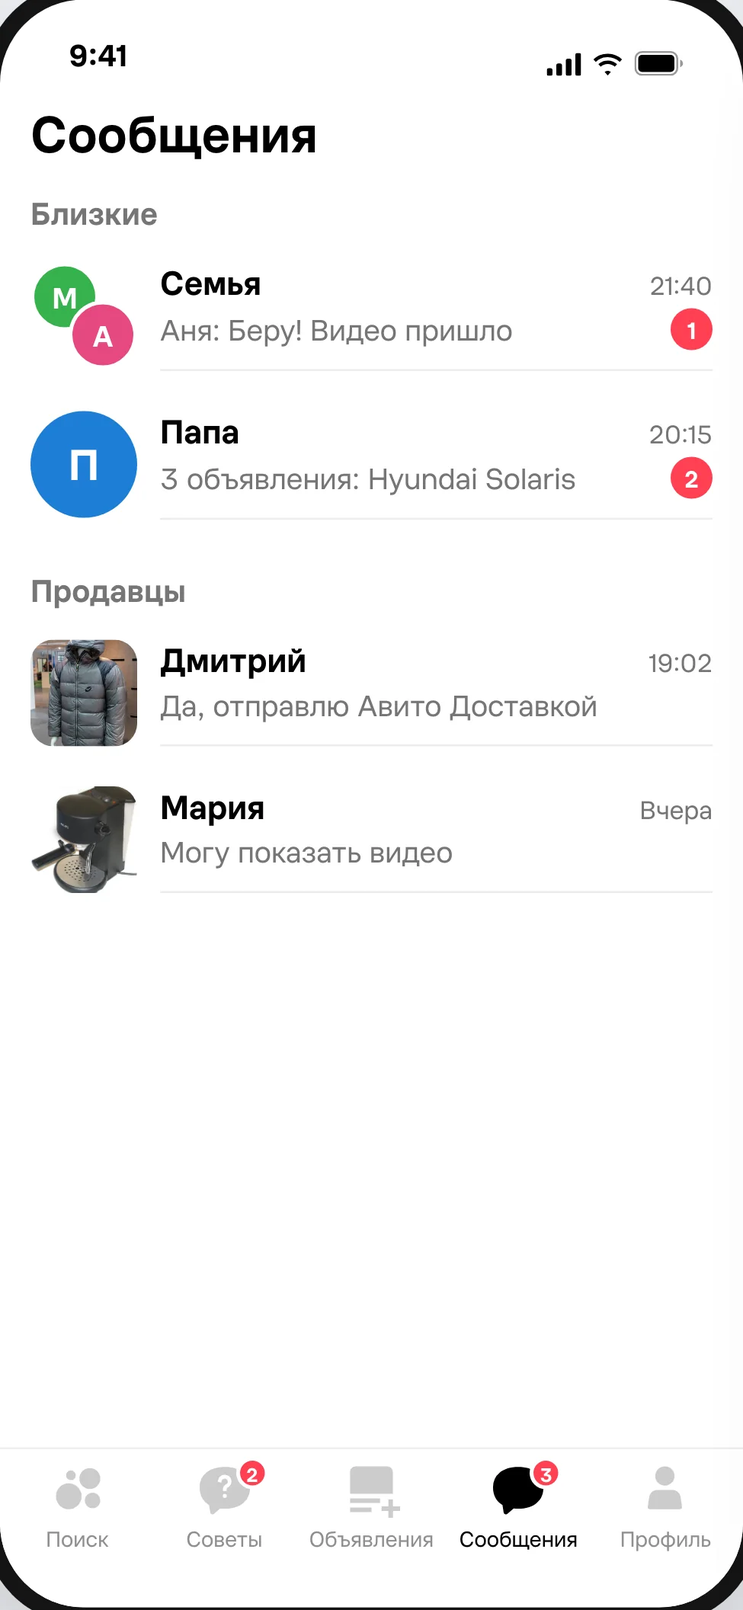
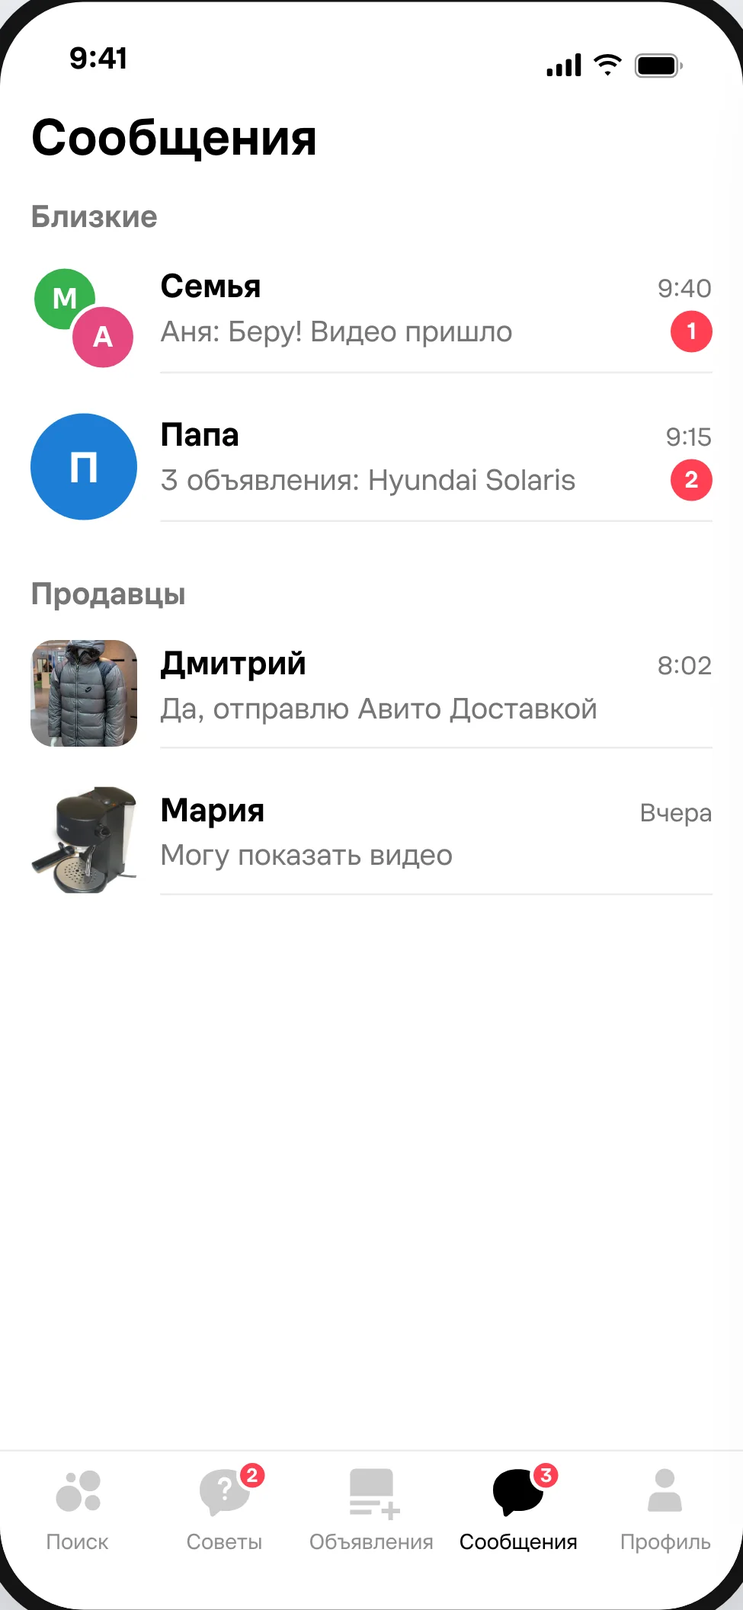
fix: макеты: время чатов до 9:41, счётчик ответов в ветке, близкие без групповых чатов с незнакомыми

diff --git a/maket/index.html b/maket/index.html
@@ -99,8 +99,8 @@ footer{padding:28px 0 44px;font-size:13px;color:var(--muted)}
 <section id="s01"><div class="k">01 · Решение · лента советов</div><h2>Советы: цепляет, как Instagram и X, выглядит как Авито</h2><p class="bp">Интерфейс собран из настоящего Авито: шрифт Avito Sans, иконки и цвета дизайн-системы. Лента устроена как в соцсетях: каждый вопрос - пост с автором, лучшим ответом знатока и крупным фото вещи из ответа, внизу счётчики со словами «14 ответов», «Полезно 23», «Близким». В каждом посте видно, что беспокоит человека и чем всё закончилось. Кнопка «Задать вопрос» всегда в углу экрана. Варианты ленты, которые рассматривали, в конце страницы.</p><div class="rail"><figure class="card"><img src="img/01_feed_01.webp" width="975" height="2113" loading="eager" alt="Открыли Советы"><figcaption><span class="n">1</span><b>Открыли Советы</b><p>Вопрос выглядит как пост в соцсети: автор, боль («дважды падала у метро»), лучший ответ знатока и фото вещи с названием и ценой, как в выдаче Авито. Под ответом итог: «Заказала, спасибо!». Внизу счётчики со словами, кнопка «Задать вопрос» всегда в углу экрана.</p></figcaption></figure><figure class="card"><img src="img/01_feed_02.webp" width="975" height="2113" loading="eager" alt="Когда нужна ваша помощь"><figcaption><span class="n">2</span><b>Когда нужна ваша помощь</b><p>Аня боится купить сломанный фотоаппарат и присылает два варианта с фото, как опрос в соцсети. Помочь можно одной кнопкой «Помочь Ане». Ниже вопрос вашей темы без ответа с пометкой «Можно ответить первым»: Ника боится камеры с дефектом.</p></figcaption></figure></div><div class="cnt"></div></section>
 <section id="s02"><div class="k">02 · Решение · нижняя панель</div><h2>Где живут Советы</h2><p class="bp">Пять вкладок, как в Авито сейчас: «Советы» встают на место Избранного, Объявления и Сообщения остаются на своих местах. Избранное не теряется: кнопка «Избранное» рядом с поиском и первый пункт Профиля с пометкой «Теперь здесь». Главная, плитки категорий и профиль - как в Авито.</p><div class="rail"><figure class="card"><img src="img/02_nav_01.webp" width="975" height="2113" loading="lazy" alt="Советы вместо Избранного"><figcaption><span class="n">1</span><b>Советы вместо Избранного</b><p>Главная Авито как есть, добавлена только кнопка «Избранное» рядом с поиском. В нижней панели пять вкладок: Поиск, Советы, Объявления, Сообщения, Профиль.</p></figcaption></figure><figure class="card"><img src="img/02_nav_02.webp" width="975" height="2113" loading="lazy" alt="Избранное в Профиле"><figcaption><span class="n">2</span><b>Избранное в Профиле</b><p>Избранное первым пунктом профиля с пометкой «Теперь здесь», ниже «Знаток» с вашими ответами. Профиль Авито не переделываем, только добавляем пункты.</p></figcaption></figure></div><div class="cnt"></div></section>
 <section id="s03"><div class="k">03 · Решение · задать вопрос</div><h2>Задать вопрос на одном экране</h2><p class="bp">Одно поле, как письмо другу, и кнопка «Сказать голосом». Категорию, бюджет и размер понимает Ави, помощник Авито, и показывает одной строкой. Кому показать вопрос - два варианта словами. После отправки сразу понятно, что вопрос ушёл и что будет дальше. Пример - ваш собственный вопрос: пуховик, в котором не мёрзнешь на остановке.</p><div class="rail"><figure class="card"><img src="img/03_create_01.webp" width="975" height="2113" loading="lazy" alt="Текстом или голосом"><figcaption><span class="n">1</span><b>Текстом или голосом</b><p>Пишете как в мессенджере или говорите голосом. Ави сам понимает категорию, бюджет и размер. Кому показать - два понятных варианта, выбираются до отправки.</p></figcaption></figure><figure class="card"><img src="img/03_create_02.webp" width="975" height="2113" loading="lazy" alt="Сразу после отправки"><figcaption><span class="n">2</span><b>Сразу после отправки</b><p>Зелёная плашка «Вопрос отправлен» и что будет дальше. Ниже объявления, которые подобрал Ави, и похожие вопросы. Экран не пустой, понятно, что делать, пока ждёте ответ.</p></figcaption></figure><figure class="card"><img src="img/03_create_03.webp" width="975" height="2113" loading="lazy" alt="Когда пришли ответы"><figcaption><span class="n">3</span><b>Когда пришли ответы</b><p>Проблема решилась прямо здесь: знаток одежды Света прислала пуховик вашего размера, вы нажали «Помогло» и пишете «Заказал с Авито Доставкой». У каждого ответа одинаковые кнопки «Помогло» и «Ответить».</p></figcaption></figure></div><div class="cnt"></div></section>
-<section id="s04"><div class="k">04 · Решение · ответить на вопрос</div><h2>Вопрос и ответ</h2><p class="bp">Ответы выглядят как обычные комментарии: сверху тот, что помог автору, под ним ответы на него. У каждого действия есть подпись: «Отправить близким», «Написать ответ», «Добавить объявление». Объявление к ответу прикрепляется кнопкой со словами, а не значком «+». Пример - вопрос Марины через 10 минут после публикации, пока она ещё выбирает: вы советуете из своего опыта.</p><div class="rail"><figure class="card"><img src="img/04_thread_01.webp" width="975" height="2113" loading="lazy" alt="Вопрос и ответы"><figcaption><span class="n">1</span><b>Вопрос и ответы</b><p>Марина боится снова упасть. Илья советует модель с объявлением, а сомнение про размер закрывает прямо в ветке: «Свой, с тёплым носком как раз». Его ответ сверху с пометкой «помогло автору». Остальные 13 ответов открываются кнопкой, свой можно добавить кнопкой «Написать ответ».</p></figcaption></figure><figure class="card"><img src="img/04_thread_02.webp" width="975" height="2113" loading="lazy" alt="«Добавить объявление»"><figcaption><span class="n">2</span><b>«Добавить объявление»</b><p>Нажали «Добавить объявление». Вместо значка «+» кнопка со словами и три понятных способа: подобрать по вопросу, взять из Избранного или сфотографировать свои кроссовки. Шторка закрывается кнопкой «Закрыть».</p></figcaption></figure><figure class="card"><img src="img/04_thread_03.webp" width="975" height="2113" loading="lazy" alt="Подобрать по вопросу"><figcaption><span class="n">3</span><b>Подобрать по вопросу</b><p>Объявления уже отобраны по вопросу Марины. Под каждым кнопка «Выбрать», выбранное отмечено галочкой, а то, что уже посоветовал Илья, помечено «Уже у Ильи». Так ответ сразу ведёт к покупке.</p></figcaption></figure><figure class="card"><img src="img/04_thread_04.webp" width="975" height="2113" loading="lazy" alt="Ответ с вещью"><figcaption><span class="n">4</span><b>Ответ с вещью</b><p>Текст и прикреплённое объявление уходят одним ответом. Если прикрепить своё объявление, ответ получит пометку «Реклама».</p></figcaption></figure></div><div class="cnt"></div></section>
-<section id="s05"><div class="k">05 · Решение · близкие</div><h2>Близкие вместо групп</h2><p class="bp">Групп по интересам нет: только семья и друзья, которых вы позвали сами. Переписка живёт в обычных Сообщениях Авито, близкие закреплены сверху. В Советах просьба близкого приходит карточкой с кнопкой «Помочь». Что прислал папа, оцениваем кнопками «Нравится» и «Не то», без свайпов.</p><div class="rail"><figure class="card"><img src="img/05_close_01.webp" width="975" height="2113" loading="lazy" alt="Нажали «Помочь Ане»"><figcaption><span class="n">1</span><b>Нажали «Помочь Ане»</b><p>Поверх Советов открылся семейный чат, тот же, что в Сообщениях. Аня боится купить сломанный, мама одобрила Зенит, вы советуете попросить видео затвора. Шторка закрывается кнопкой «Закрыть».</p></figcaption></figure><figure class="card"><img src="img/05_close_02.webp" width="975" height="2113" loading="lazy" alt="Близкие в Сообщениях"><figcaption><span class="n">2</span><b>Близкие в Сообщениях</b><p>Через час в Сообщениях: близкие закреплены сверху и отделены от продавцов. Аня пишет «Беру! Видео пришло» - продавец прислал видео затвора, её проблема решена. Папа прислал три машины.</p></figcaption></figure><figure class="card"><img src="img/05_close_03.webp" width="975" height="2113" loading="lazy" alt="Чат с папой"><figcaption><span class="n">3</span><b>Чат с папой</b><p>Папа боялся взять машину, которая сгниёт. Прочитал ответы владельцев и решил сам: у Весты ржавеют пороги, берёт Solaris. Его варианты оцениваем по одному кнопками «Нравится» и «Не то», без свайпов.</p></figcaption></figure></div><div class="cnt"></div></section>
+<section id="s04"><div class="k">04 · Решение · ответить на вопрос</div><h2>Вопрос и ответ</h2><p class="bp">Ответы выглядят как обычные комментарии: сверху тот, что помог автору, под ним ответы на него. У каждого действия есть подпись: «Отправить близким», «Написать ответ», «Добавить объявление». Объявление к ответу прикрепляется кнопкой со словами, а не значком «+». Пример - вопрос Марины через 10 минут после публикации, пока она ещё выбирает: вы советуете из своего опыта.</p><div class="rail"><figure class="card"><img src="img/04_thread_01.webp" width="975" height="2113" loading="lazy" alt="Вопрос и ответы"><figcaption><span class="n">1</span><b>Вопрос и ответы</b><p>Марина боится снова упасть. Илья советует модель с объявлением, а сомнение про размер закрывает прямо в ветке: «Свой, с тёплым носком как раз». Его ответ сверху с пометкой «помогло автору». Остальные 12 ответов открываются кнопкой, свой можно добавить кнопкой «Написать ответ».</p></figcaption></figure><figure class="card"><img src="img/04_thread_02.webp" width="975" height="2113" loading="lazy" alt="«Добавить объявление»"><figcaption><span class="n">2</span><b>«Добавить объявление»</b><p>Нажали «Добавить объявление». Вместо значка «+» кнопка со словами и три понятных способа: подобрать по вопросу, взять из Избранного или сфотографировать свои кроссовки. Шторка закрывается кнопкой «Закрыть».</p></figcaption></figure><figure class="card"><img src="img/04_thread_03.webp" width="975" height="2113" loading="lazy" alt="Подобрать по вопросу"><figcaption><span class="n">3</span><b>Подобрать по вопросу</b><p>Объявления уже отобраны по вопросу Марины. Под каждым кнопка «Выбрать», выбранное отмечено галочкой, а то, что уже посоветовал Илья, помечено «Уже у Ильи». Так ответ сразу ведёт к покупке.</p></figcaption></figure><figure class="card"><img src="img/04_thread_04.webp" width="975" height="2113" loading="lazy" alt="Ответ с вещью"><figcaption><span class="n">4</span><b>Ответ с вещью</b><p>Текст и прикреплённое объявление уходят одним ответом. Если прикрепить своё объявление, ответ получит пометку «Реклама».</p></figcaption></figure></div><div class="cnt"></div></section>
+<section id="s05"><div class="k">05 · Решение · близкие</div><h2>Близкие вместо групп</h2><p class="bp">Групповых чатов с незнакомыми нет: только семья и друзья, которых вы позвали сами, а темы по интересам - в ленте Советов. Переписка живёт в обычных Сообщениях Авито, близкие закреплены сверху. В Советах просьба близкого приходит карточкой с кнопкой «Помочь». Что прислал папа, оцениваем кнопками «Нравится» и «Не то», без свайпов.</p><div class="rail"><figure class="card"><img src="img/05_close_01.webp" width="975" height="2113" loading="lazy" alt="Нажали «Помочь Ане»"><figcaption><span class="n">1</span><b>Нажали «Помочь Ане»</b><p>Поверх Советов открылся семейный чат, тот же, что в Сообщениях. Аня боится купить сломанный, мама одобрила Зенит, вы советуете попросить видео затвора. Шторка закрывается кнопкой «Закрыть».</p></figcaption></figure><figure class="card"><img src="img/05_close_02.webp" width="975" height="2113" loading="lazy" alt="Близкие в Сообщениях"><figcaption><span class="n">2</span><b>Близкие в Сообщениях</b><p>Через час в Сообщениях: близкие закреплены сверху и отделены от продавцов. Аня пишет «Беру! Видео пришло» - продавец прислал видео затвора, её проблема решена. Папа прислал три машины.</p></figcaption></figure><figure class="card"><img src="img/05_close_03.webp" width="975" height="2113" loading="lazy" alt="Чат с папой"><figcaption><span class="n">3</span><b>Чат с папой</b><p>Папа боялся взять машину, которая сгниёт. Прочитал ответы владельцев и решил сам: у Весты ржавеют пороги, берёт Solaris. Его варианты оцениваем по одному кнопками «Нравится» и «Не то», без свайпов.</p></figcaption></figure></div><div class="cnt"></div></section>
 <section id="s06"><div class="k">06 · Решение · карточка объявления</div><h2>Опыт владельцев, который не мешает покупке</h2><p class="bp">Карточка объявления Авито как есть: фото со счётчиком, цена, кнопки внизу. Добавлен только спокойный серый блок «Что говорят владельцы»: до&nbsp;10 отзывов о модели одна цитата, от 10 - короткая сводка Ави с плюсами и минусами (Яндекс тоже включает ИИ-сводку от 10 отзывов). Ниже вопрос об этой модели с лучшим ответом и кнопка «Задать вопрос о модели».</p><div class="rail"><figure class="card"><img src="img/06_item_01.webp" width="975" height="2113" loading="lazy" alt="До 10 отзывов: одна цитата"><figcaption><span class="n">1</span><b>До&nbsp;10 отзывов: одна цитата</b><p>Два главных страха закрыты прямо в карточке. «А вдруг не подойдёт размер» - владельцы: «садятся размер в размер». «А вдруг подделка» - лучший ответ: сверить артикул с сайтом. <span class="pro">Блок спокойный и не спорит с ценой и кнопками покупки.</span></p></figcaption></figure><figure class="card"><img src="img/06_item_02.webp" width="975" height="2113" loading="lazy" alt="От 10 отзывов: сводка Ави"><figcaption><span class="n">2</span><b>От 10 отзывов: сводка Ави</b><p>Плюсы и минусы модели по отзывам владельцев коротко, обычными словами. Так Яндекс показывает сводку отзывов в Маркете, от 10 отзывов. <span class="pro">Работает и для авто, и для техники.</span></p></figcaption></figure><figure class="card"><img src="img/06_item_03.webp" width="975" height="2113" loading="lazy" alt="Вопрос из карточки"><figcaption><span class="n">3</span><b>Вопрос из карточки</b><p>Вопрос о модели задаётся в один шаг, модель уже прикреплена. Если такой вопрос уже задавали, Авито сразу показывает готовые ответы. Про конкретного продавца написать нельзя, его репутация не страдает.</p></figcaption></figure></div><div class="cnt"></div></section>
 <section id="s07"><div class="k">07 · Решение · знатоки</div><h2>Знаток: за что дают и что это даёт</h2><p class="bp">Вкладка «Знаток» внутри обычного профиля Авито, туда ведёт пункт «Знаток» в Профиле. Статус свой в каждой теме и растёт только от отметок «Помогло» и покупок по совету, а не от числа ответов. В ленте рядом с именем видно только слово, например «Знаток обуви», и тонкое кольцо у аватара. Уровни и прогресс живут в профиле.</p><div class="rail"><figure class="card"><img src="img/07_expert_01.webp" width="975" height="2113" loading="lazy" alt="Вкладка «Знаток» в профиле"><figcaption><span class="n">1</span><b>Вкладка «Знаток» в профиле</b><p>Профиль не переделываем, добавляем вкладку рядом с Объявлениями и Отзывами. Главное одной фразой: «Вы помогли выбрать 20 людям», и последнее спасибо: Олег не купил камеру с битым пикселем. Знаток видит, что его совет реально уберёг человека.</p></figcaption></figure><figure class="card"><img src="img/07_expert_02.webp" width="975" height="2113" loading="lazy" alt="Как стать знатоком"><figcaption><span class="n">2</span><b>Как стать знатоком</b><p>Три шага с номерами вместо таблицы уровней: советчик, знаток, эксперт. Считаем только «Помогло» от автора вопроса и покупки по совету.</p></figcaption></figure><figure class="card"><img src="img/07_expert_03.webp" width="975" height="2113" loading="lazy" alt="Чтобы ответ получил каждый"><figcaption><span class="n">3</span><b>Чтобы ответ получил каждый</b><p>Вопрос без ответа через 3 часа поднимается в ленте темы, через 6 часов уходит мягким уведомлением трём знатокам темы, не больше одного в день. Под вопросом одна кнопка «Ответить».</p></figcaption></figure></div><div class="cnt"></div></section>
 
